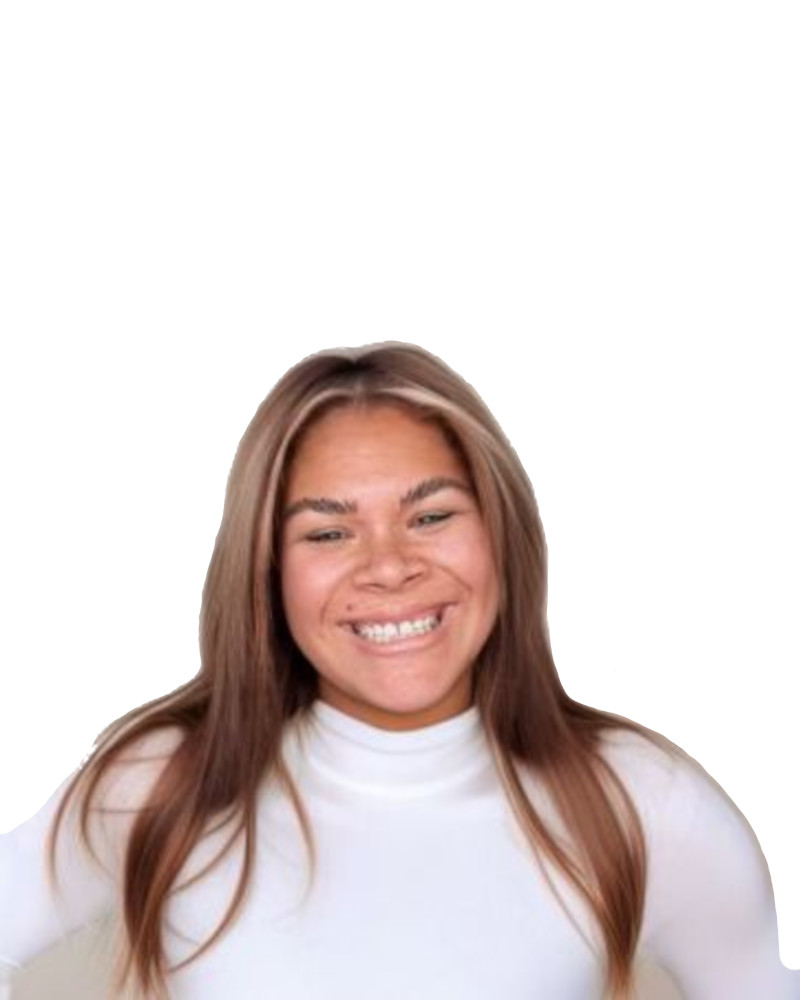
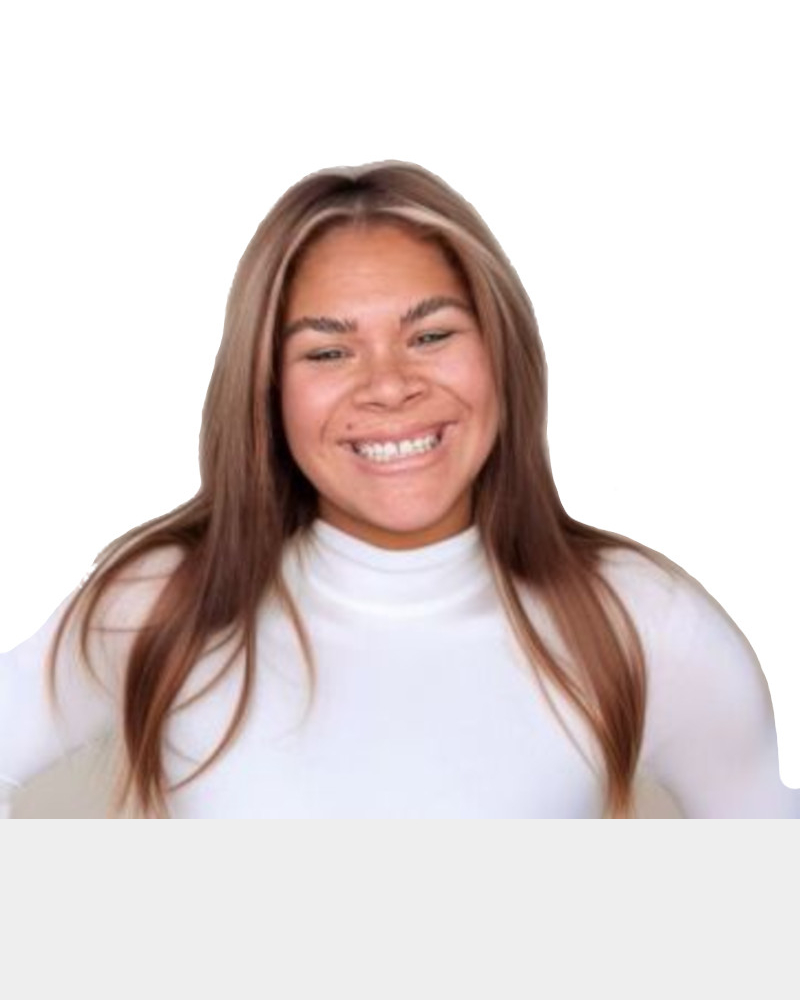
staff image size adjustments

diff --git a/src/Pages/WebsitePages/Staff.jsx b/src/Pages/WebsitePages/Staff.jsx
@@ -146,7 +146,7 @@ export default function Staff() {
     const [loaded, setLoaded] = useState(false);
 
     return (
-      <Grid container size={{ xs: 12, md: 6, lg: 4 }} justifyContent="center">
+      <Grid container size={{ xs: 6, sm: 4, md: 3, }} justifyContent="center">
         <Box
           sx={
             loaded
@@ -182,9 +182,7 @@ export default function Staff() {
             src={employee.picture}
             alt="Employee Image"
             style={{
-              minWidth: "100%",
-              maxWidth: "362px",
-              maxHeight: "100%",
+              width: '100%',
               borderRadius: "4px",
               display: loaded ? "block" : "none",
             }}
@@ -212,7 +210,7 @@ export default function Staff() {
           <Typography
             sx={{
               position: "absolute",
-              bottom: 65,
+              bottom: 45,
               left: "50%",
               transform: "translate(-50%, 50%)",
               zIndex: 2,
@@ -228,7 +226,7 @@ export default function Staff() {
           </Typography>
           <Box
             sx={{
-              height: "120px",
+              height: "7em",
               width: "100%",
               backgroundColor: "#FF1B22",
               position: "absolute",
